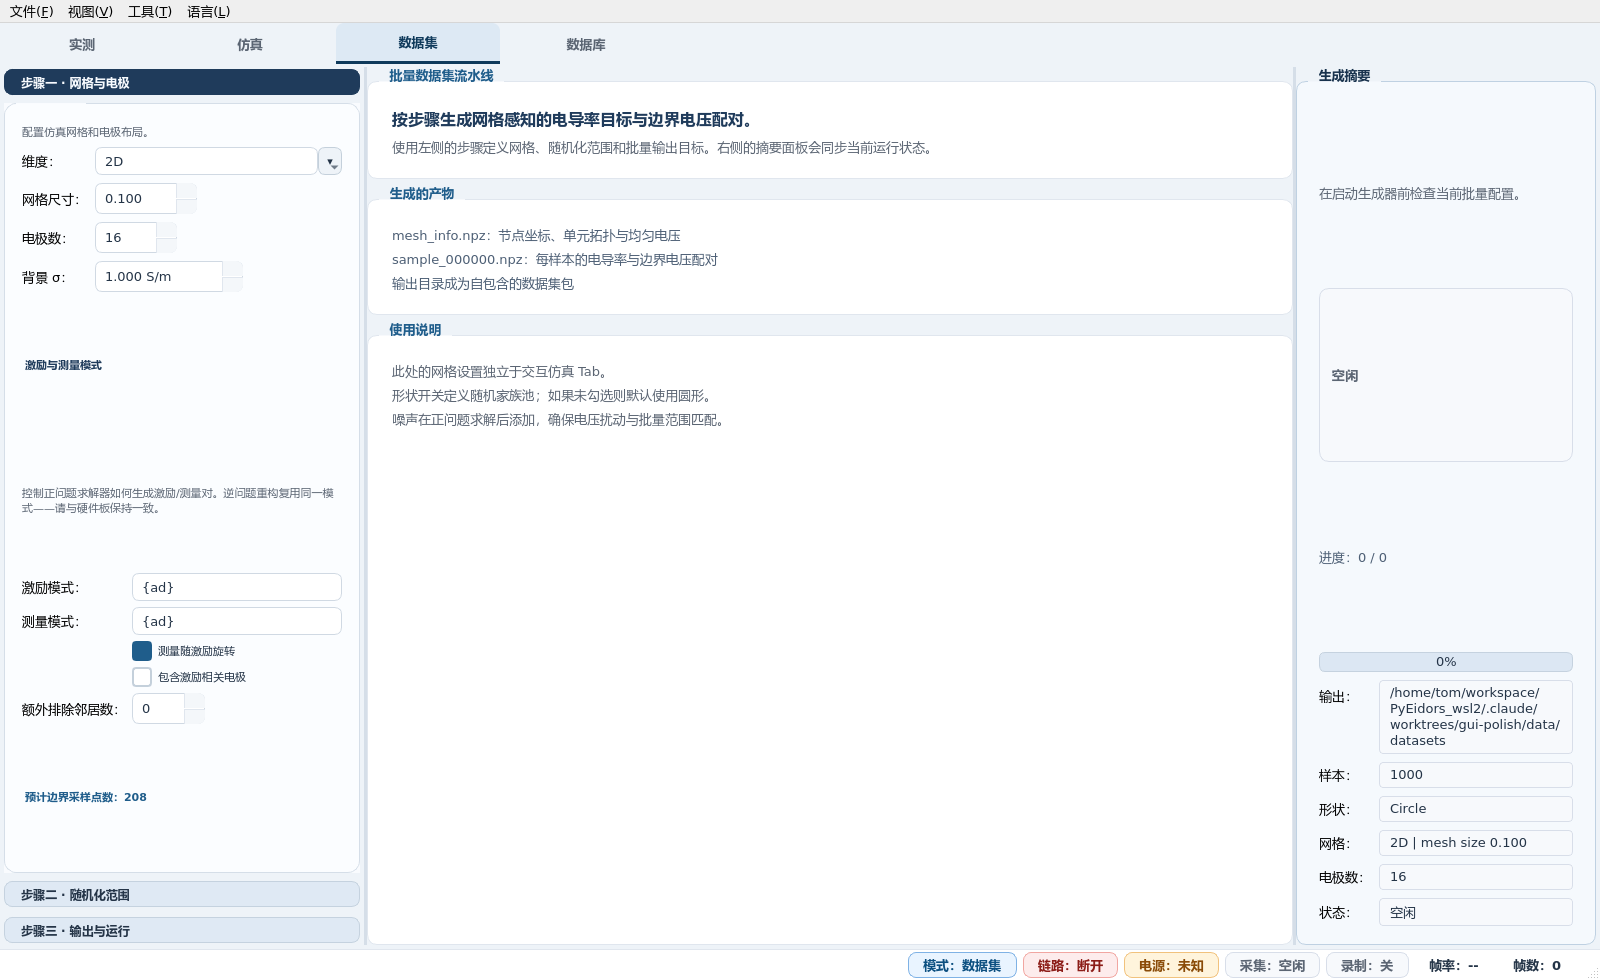
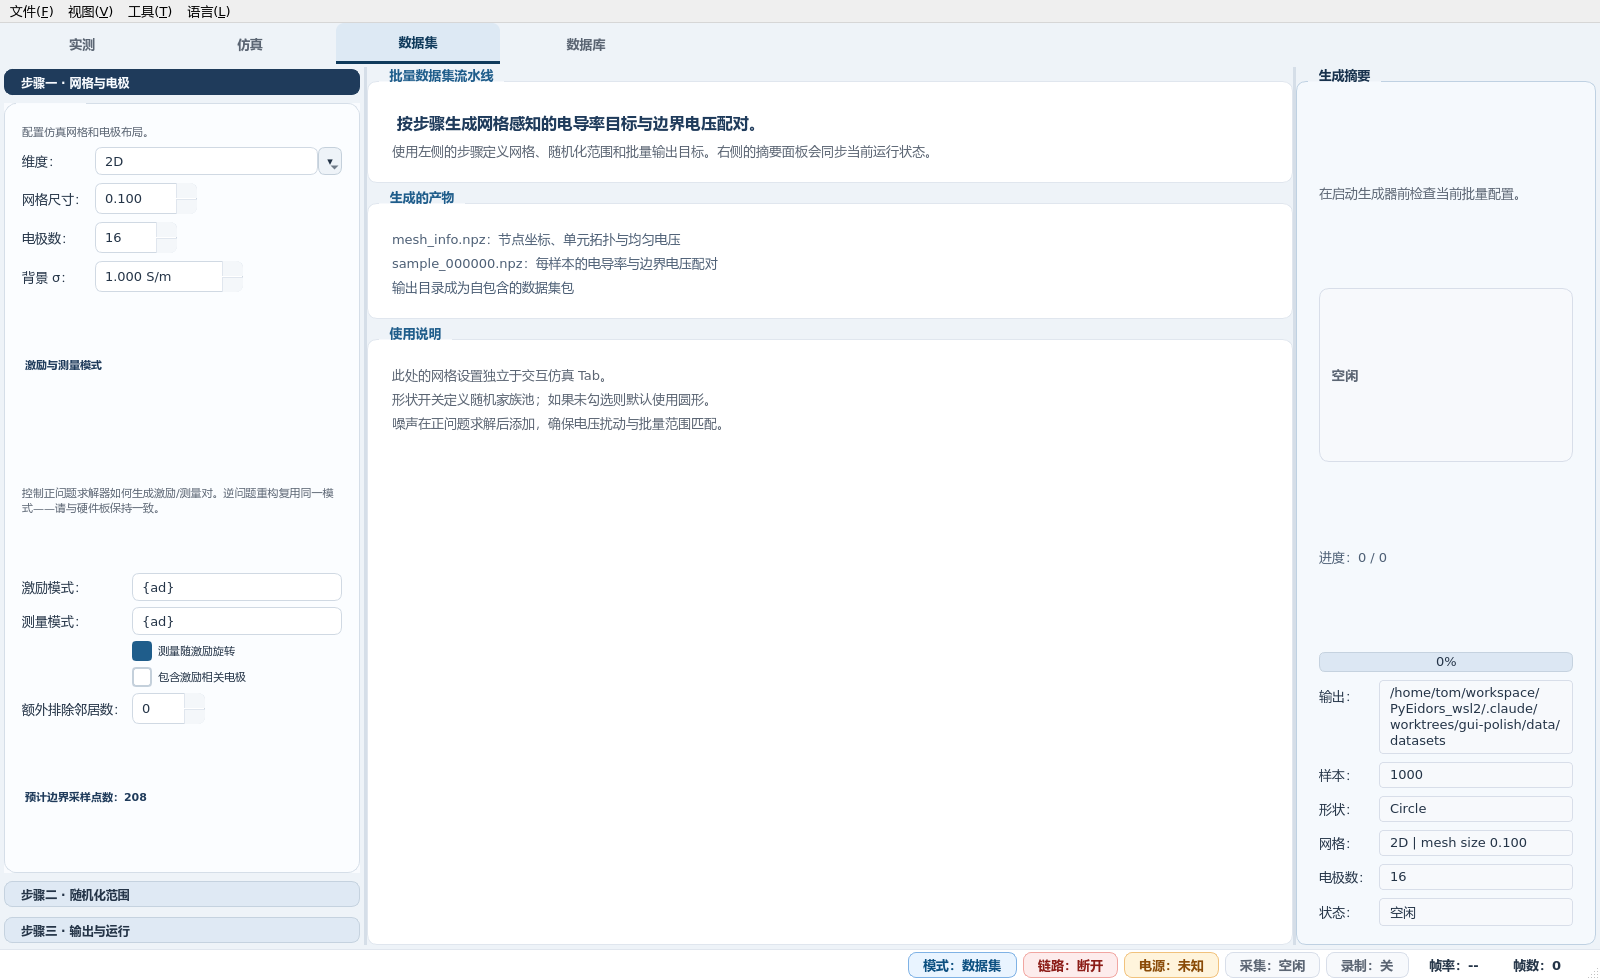
Lift every QLabel off Qt's black palette default for dark-mode readability
Pixel-probe of the dark-mode Simulation tab found 13 QLabel widgets
painting at luminance < 120:

  10 × pure #000000   — plain QLabels with no style and no role
                        property inheriting Qt's default WindowText
                        (form rows: 维度 / 网格尺寸 / 电极数 / 背景 σ,
                         error-metrics: Correlation / RMSE / Relative L2,
                         pattern fields: Stim pattern / Meas pattern /
                         Extra excluded neighbors)
   2 × #243447 hardcoded — Ground Truth / Recon Fit rows in the
                           plot legend overlay
   1 × #1f5d8b hardcoded — "Expected boundary samples: 208" hint

Seven paths total, fixed in parallel:

theme.py
  * Add `QLabel { color: #243447; }` to the LIGHT stylesheet and
    `QLabel { color: #dbe1ea; }` to the DARK overlay.  This gives
    every plain QLabel a theme-tracking default that's high-contrast
    against the active canvas.  Role-specific selectors
    (uiSectionHeader / uiHintText / uiSubtleValue) still override
    where a different shade is wanted.

mesh_setup_panel.py
  * _point_count_label switches from hardcoded #1f5d8b to
    set_section_header() so the accent color flips with the theme.

plot_legend_overlay.py
  * Both the indicator rows (Ground Truth / Recon Fit) and the
    interactive toggle buttons (Real / Imag) now resolve text /
    dim / hover colors from current_theme_mode().
  * The legend card background also follows the theme:
[…]

diff --git a/src/eit_app/ui/plot_legend_overlay.py b/src/eit_app/ui/plot_legend_overlay.py
@@ -9,6 +9,7 @@ from PySide6.QtGui import QColor, QCursor, QFont, QIcon, QPainter, QPen, QPixmap
 from PySide6.QtWidgets import QFrame, QHBoxLayout, QLabel, QToolButton, QVBoxLayout, QWidget
 
 from eit_app.i18n import t, translator
+from eit_app.ui.theme import current_theme_mode, subscribe_theme_mode
 
 
 @dataclass(frozen=True)
@@ -113,7 +114,15 @@ class LegendToggleButton(QToolButton):
         self.setIcon(_eye_icon(visible=checked, compact=self._compact))
         font_size = 10 if self._compact else 11
         padding = "1px 2px" if self._compact else "2px 4px"
-        text_color = "#243447" if checked else "#8a98a8"
+        # Text color follows the theme: dark mode uses bright text on
+        # the translucent-dark legend card; light mode uses navy on
+        # the translucent-white card.  Disabled / unchecked state
+        # dims the active color in both modes.
+        if current_theme_mode() == "dark":
+            active, dim, hover = "#dbe1ea", "#6a7686", "#9dc9ea"
+        else:
+            active, dim, hover = "#243447", "#8a98a8", "#1f4b78"
+        text_color = active if checked else dim
         self.setStyleSheet(
             f"""
             QToolButton {{
@@ -126,7 +135,7 @@ class LegendToggleButton(QToolButton):
                 text-align: left;
             }}
             QToolButton:hover {{
-                color: #1f4b78;
+                color: {hover};
             }}
             """
         )
@@ -180,9 +189,18 @@ class _LegendIndicatorRow(QWidget):
         font.setPointSize(10 if compact else 12)
         font.setWeight(QFont.Weight.DemiBold)
         self.text_label.setFont(font)
-        self.text_label.setStyleSheet("color: #243447;")
+        # Text color follows the theme.  Light mode uses the navy
+        # #243447 that reads cleanly on the translucent-white legend
+        # card; dark mode uses #dbe1ea on the translucent-dark card.
+        # apply_legend_text_color() is invoked on every mode flip by
+        # the PlotLegendOverlay parent's subscribe_theme_mode hook.
+        self._apply_legend_text_color()
         layout.addWidget(self.text_label, 0, Qt.AlignmentFlag.AlignVCenter)
         layout.addStretch(1)
+
+    def _apply_legend_text_color(self) -> None:
+        color = "#dbe1ea" if current_theme_mode() == "dark" else "#243447"
+        self.text_label.setStyleSheet(f"color: {color};")
 
 
 class PlotLegendOverlay(QFrame):
@@ -204,18 +222,10 @@ class PlotLegendOverlay(QFrame):
         self._draggable = draggable
         self._drag_offset: QPoint | None = None
         self._drag_margin = 8
-        alpha = background_alpha if background_alpha is not None else (196 if compact else 204)
+        self._alpha = background_alpha if background_alpha is not None else (196 if compact else 204)
         self.setObjectName("plotLegendOverlay")
         self.setAttribute(Qt.WidgetAttribute.WA_StyledBackground, True)
-        self.setStyleSheet(
-            f"""
-            QFrame#plotLegendOverlay {{
-                background: rgba(255, 255, 255, {alpha});
-                border: 1px solid #c7d4e2;
-                border-radius: 8px;
-            }}
-            """
-        )
+        self._apply_card_stylesheet()
         # Tooltip is assigned by _retranslate() below so it follows UI language.
 
         layout = QVBoxLayout(self)
@@ -236,6 +246,45 @@ class PlotLegendOverlay(QFrame):
         self._install_drag_handles()
         translator().language_changed.connect(self._retranslate)
         self._retranslate()
+        # Re-paint card + label colors when the user toggles dark mode.
+        subscribe_theme_mode(self._on_theme_mode_changed)
+
+    def _apply_card_stylesheet(self) -> None:
+        """Paint the legend card background + border according to mode.
+
+        Light mode uses translucent-white on the cream plot canvas.
+        Dark mode uses translucent-dark (#222831 base with alpha) on
+        the near-black plot canvas — keeps the legend readable while
+        still hinting at the plot underneath.
+        """
+        if current_theme_mode() == "dark":
+            bg = f"rgba(34, 40, 49, {self._alpha})"    # #222831 with alpha
+            border = "#3e4754"
+        else:
+            bg = f"rgba(255, 255, 255, {self._alpha})"
+            border = "#c7d4e2"
+        self.setStyleSheet(
+            f"""
+            QFrame#plotLegendOverlay {{
+                background: {bg};
+                border: 1px solid {border};
+                border-radius: 8px;
+            }}
+            """
+        )
+
+    def _on_theme_mode_changed(self, _mode: str) -> None:
+        """Re-apply card + child-row colors on theme-mode flip."""
+        self._apply_card_stylesheet()
+        for label in self._indicator_labels.values():
+            # Call on the parent row (which owns _apply_legend_text_color)
+            pass
+        # Iterate rows for both indicator and interactive variants and
+        # re-invoke their color helpers.
+        for row in self.findChildren(_LegendIndicatorRow):
+            row._apply_legend_text_color()
+        for button in self._buttons.values():
+            button._refresh_appearance(button.isChecked())
 
     def button(self, key: str) -> LegendToggleButton:
         return self._buttons[key]

diff --git a/src/eit_app/ui/hardware/control_panel.py b/src/eit_app/ui/hardware/control_panel.py
@@ -18,7 +18,7 @@ from PySide6.QtWidgets import (
 from eit_app.i18n import t, translator
 from eit_app.measurement_layout import measurement_layout_from_config
 from eit_app.ui.auto_close_combo_box import AutoCloseComboBox
-from eit_app.ui.theme import set_button_role, set_hint_text, set_section_header
+from eit_app.ui.theme import set_button_role, set_hint_text, set_section_header, set_subtle_value
 
 
 # Stimulation amplitude level descriptions — kept as numeric/unit labels
@@ -286,7 +286,10 @@ class ControlPanel(QGroupBox):
         block_layout.setContentsMargins(0, 0, 0, 0)
         block_layout.setSpacing(4)
         label = QLabel("")  # retranslated via _field_labels[field_key]
-        label.setStyleSheet("color: #4d5f75; font-weight: 600;")
+        # Use subtle-value role so color follows theme (was #4d5f75 which
+        # is invisible on the dark canvas).
+        set_subtle_value(label)
+        label.setStyleSheet("font-weight: 600;")
         self._field_labels[field_key] = label
         block_layout.addWidget(label)
         block_layout.addWidget(field_widget)
@@ -308,7 +311,10 @@ class ControlPanel(QGroupBox):
 
         for col, key in enumerate(("mode", "elec_ring", "rings")):
             label = QLabel("")
-            label.setStyleSheet("color: #6a7686; font-size: 11px; font-weight: 700;")
+            # Drop explicit #6a7686 — subtle-value role provides the
+            # theme-aware color (invisible on dark canvas otherwise).
+            set_subtle_value(label)
+            label.setStyleSheet("font-size: 11px; font-weight: 700;")
             self._grid_labels[f"layout.{key}"] = label
             top_grid.addWidget(label, 0, col)
         top_grid.addWidget(self._mea_mode_combo, 1, 0)
@@ -324,10 +330,12 @@ class ControlPanel(QGroupBox):
         pattern_grid.setColumnStretch(1, 1)
 
         stim_label = QLabel("")
-        stim_label.setStyleSheet("color: #6a7686; font-size: 11px; font-weight: 700;")
+        set_subtle_value(stim_label)
+        stim_label.setStyleSheet("font-size: 11px; font-weight: 700;")
         self._grid_labels["layout.stim_pattern"] = stim_label
         meas_label = QLabel("")
-        meas_label.setStyleSheet("color: #6a7686; font-size: 11px; font-weight: 700;")
+        set_subtle_value(meas_label)
+        meas_label.setStyleSheet("font-size: 11px; font-weight: 700;")
         self._grid_labels["layout.meas_pattern"] = meas_label
         pattern_grid.addWidget(stim_label, 0, 0)
         pattern_grid.addWidget(meas_label, 0, 1)
@@ -344,7 +352,8 @@ class ControlPanel(QGroupBox):
         options_grid.addWidget(self._rotate_meas_check, 0, 0)
         options_grid.addWidget(self._use_meas_current_check, 0, 1)
         extra_label = QLabel("")
-        extra_label.setStyleSheet("color: #6a7686; font-size: 11px; font-weight: 700;")
+        set_subtle_value(extra_label)
+        extra_label.setStyleSheet("font-size: 11px; font-weight: 700;")
         self._grid_labels["layout.extra_neighbors"] = extra_label
         options_grid.addWidget(extra_label, 1, 0)
         options_grid.addWidget(self._exclude_neighbors_spin, 1, 1)
@@ -359,7 +368,10 @@ class ControlPanel(QGroupBox):
         cem_grid.setColumnStretch(2, 1)
         for col, key in enumerate(("radius", "elec_length", "contact_z")):
             label = QLabel("")
-            label.setStyleSheet("color: #6a7686; font-size: 11px; font-weight: 700;")
+            # Drop explicit #6a7686 — subtle-value role provides the
+            # theme-aware color (invisible on dark canvas otherwise).
+            set_subtle_value(label)
+            label.setStyleSheet("font-size: 11px; font-weight: 700;")
             self._grid_labels[f"cem.{key}"] = label
             cem_grid.addWidget(label, 0, col)
         cem_grid.addWidget(self._radius_spin, 1, 0)

diff --git a/src/eit_app/ui/dialogs/interop_hub_dialog.py b/src/eit_app/ui/dialogs/interop_hub_dialog.py
@@ -193,7 +193,10 @@ class InteropHubDialog(QDialog):
         self._status_value_labels: dict[str, QLabel] = {}
         for index, row_id in enumerate(_STATUS_ROW_IDS):
             title = QLabel("")
-            title.setStyleSheet("font-weight: 700; color: #39506b;")
+            # Use the uiSectionHeader role so the color tracks the theme
+            # (was hardcoded #39506b which is unreadable on dark canvas).
+            title.setProperty("uiSectionHeader", True)
+            title.setStyleSheet("font-weight: 700;")
             value = QLabel("")
             set_subtle_value(value)
             self._status_title_labels[row_id] = title
@@ -321,7 +324,10 @@ class InteropHubDialog(QDialog):
 
         self._preview_overview = QLabel("")
         self._preview_overview.setWordWrap(True)
-        self._preview_overview.setStyleSheet("font-weight: 700; color: #284a6e;")
+        # Use uiSectionHeader role so the color follows the theme
+        # (was hardcoded #284a6e which becomes unreadable on dark canvas).
+        self._preview_overview.setProperty("uiSectionHeader", True)
+        self._preview_overview.setStyleSheet("font-weight: 700;")
         preview_layout.addWidget(self._preview_overview)
 
         self._preview_counts = QLabel("")

diff --git a/src/eit_app/ui/simulation/dataset_generator_tab.py b/src/eit_app/ui/simulation/dataset_generator_tab.py
@@ -8,7 +8,7 @@ from eit_app.i18n import t, translator
 from eit_app.ui.simulation.dataset_generator_panel import DatasetGeneratorPanel
 from eit_app.ui.simulation.dataset_summary_panel import DatasetSummaryPanel
 from eit_app.ui.simulation.mesh_setup_panel import MeshSetupPanel
-from eit_app.ui.theme import set_hint_text, set_subtle_value
+from eit_app.ui.theme import set_hint_text, set_section_header, set_subtle_value
 from eit_app.ui.workflow_shell import WorkflowShell
 
 
@@ -32,7 +32,11 @@ class _DatasetWorkspaceWidget(QWidget):
         hero_layout.setSpacing(8)
         self._hero_title = QLabel("")
         self._hero_title.setWordWrap(True)
-        self._hero_title.setStyleSheet("font-size: 16px; font-weight: 700; color: #1f3b5b;")
+        # Use the section-header role so the color tracks dark mode
+        # (was hardcoded #1f3b5b which becomes unreadable on a dark
+        # canvas).
+        set_section_header(self._hero_title)
+        self._hero_title.setStyleSheet("font-size: 16px; font-weight: 700;")
         hero_layout.addWidget(self._hero_title)
         self._hero_hint = QLabel("")
         self._hero_hint.setWordWrap(True)

diff --git a/src/eit_app/ui/simulation/mesh_setup_panel.py b/src/eit_app/ui/simulation/mesh_setup_panel.py
@@ -137,12 +137,12 @@ class MeshSetupPanel(QGroupBox):
         outer.addWidget(patterns_widget)
 
         # Live point-count preview so the user sees the effect of pattern
-        # tweaks immediately (updated on every config change).
+        # tweaks immediately (updated on every config change).  Use the
+        # uiSectionHeader role so the color follows the theme (was
+        # hardcoded #1f5d8b which is invisible on the dark canvas).
         self._point_count_label = QLabel("")
-        set_hint_text(self._point_count_label)
-        self._point_count_label.setStyleSheet(
-            "padding: 4px 0; color: #1f5d8b; font-weight: 600;"
-        )
+        set_section_header(self._point_count_label)
+        self._point_count_label.setStyleSheet("padding: 4px 0;")
         outer.addWidget(self._point_count_label)
 
     # ------------------------------------------------------------------

diff --git a/src/eit_app/ui/theme.py b/src/eit_app/ui/theme.py
@@ -725,6 +725,14 @@ QGroupBox[embeddedStepPanel="true"] QCheckBox::indicator {
     height: 16px;
 }
 
+/* Plain QLabels without a role property inherit Qt's default
+   WindowText color (#000000), which is invisible on the dark
+   canvas and low-contrast even on the light canvas.  Pin a sane
+   default that later role-specific rules can still override. */
+QLabel {
+    color: #243447;
+}
+
 QLabel[uiSectionHeader="true"] {
     color: #1f3b5b;
     font-weight: 700;
@@ -1453,6 +1461,11 @@ QGroupBox[embeddedStepPanel="true"]::title {
     background: #222831;
 }
 
+/* Dark default for plain QLabels — inherits from canvas color.
+   Role-specific selectors below override this where needed. */
+QLabel {
+    color: #dbe1ea;
+}
 QLabel[uiSectionHeader="true"] {
     color: #9dc9ea;
 }

diff --git a/src/eit_app/ui/status_bar.py b/src/eit_app/ui/status_bar.py
@@ -70,7 +70,10 @@ class EITStatusBar(QStatusBar):
         self._frame_label = QLabel("")
 
         for label in (self._fps_label, self._frame_label):
-            label.setStyleSheet("padding: 0 10px; color: #243447; font-weight: 700;")
+            # Drop the explicit color — the default QLabel { color: ...; }
+            # rule in the global stylesheet provides a theme-aware value
+            # (#243447 light / #dbe1ea dark).  Keep the padding + weight.
+            label.setStyleSheet("padding: 0 10px; font-weight: 700;")
 
         apply_state_chip(self._conn_label, tone="error", compact=True)
         apply_state_chip(self._power_label, tone="warn", compact=True)
